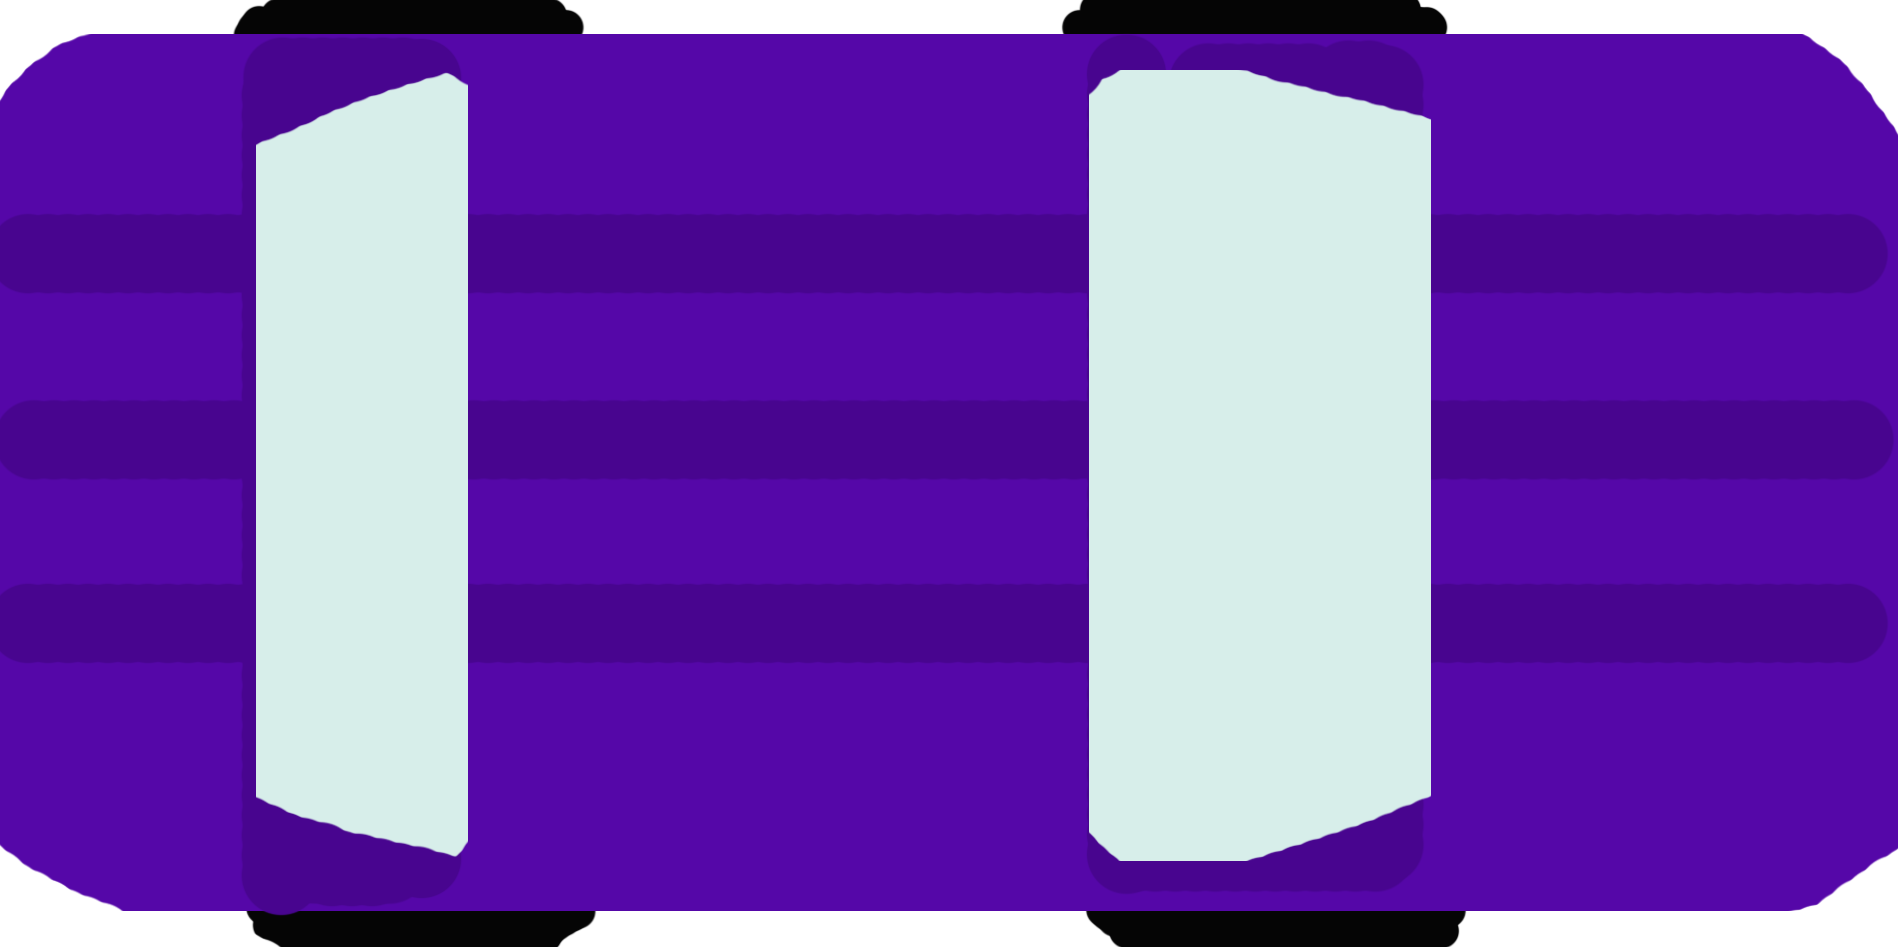
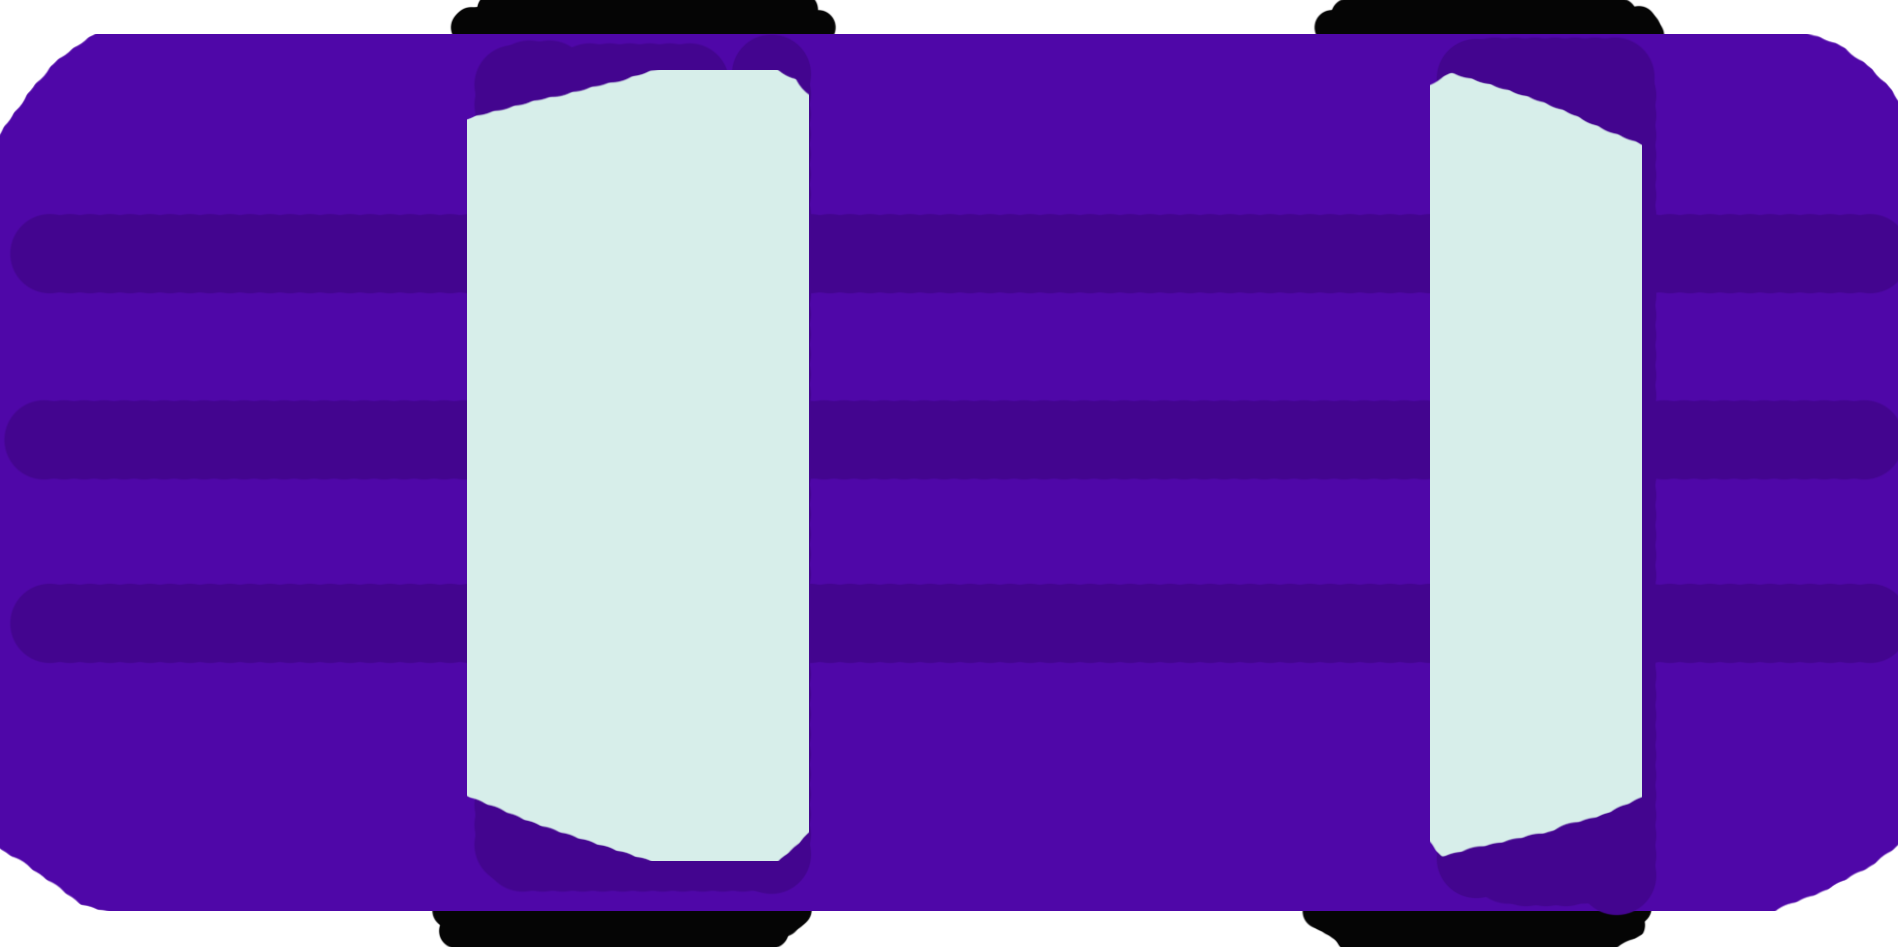
P1: Added in orange car that acts similar to car purple

diff --git a/projects/project1/js/script.js b/projects/project1/js/script.js
@@ -5,15 +5,23 @@ let caughtendingImage;
 let trafficImage;
 let carImage ={
   x:0,
-  y:100,
+  y:300,
   vx:0,
   vy:0,
   width:100,
   height:50,
-  speed:0.05,
+  speed:0.03,
   img:undefined,
 }
 let carpurpleImage ={
+  x:1000,
+  y:0,
+  width:100,
+  height:50,
+  speed:-7,
+  img:undefined,
+}
+let carorangeImage ={
   x:1000,
   y:0,
   width:100,
@@ -31,6 +39,7 @@ function preload(){
   trafficImage=loadImage("assets/images/traffic.jpg")
   carImage.img=loadImage("assets/images/car.png")
   carpurpleImage.img=loadImage("assets/images/carpurple.png")
+  carorangeImage.img=loadImage("assets/images/carorange.png")
 }
 let circle1 = {
   x:500,
@@ -189,9 +198,14 @@ function caughtending(){
 
 function traffic(){
   image(trafficImage,0,0,1000,600);
+  textSize(30);
+  textAlign(CENTER,CENTER);
+  text(`Gotta protect this 8 million baby. Not on proposal day.`,width/2,100);
+  text(`Keep goin buddy.`,width/2,50);
   carmove();
   cardisplays();
   carpurplemovement();
+  carorangemovement();
 }
 
 
@@ -277,17 +291,29 @@ function cardisplays(){
   carImage.x += carImage.vx;
   carImage.y += carImage.vy;
   image(carImage.img,carImage.x, carImage.y, carImage.width, carImage.height);
+  image(carpurpleImage.img,carpurpleImage.x, carpurpleImage.y, carpurpleImage.width, carpurpleImage.height);
+  image(carorangeImage.img,carorangeImage.x, carorangeImage.y, carorangeImage.width, carorangeImage.height);
+
 }
+
+
 function carpurplemovement(){
 carpurpleImage.x += carpurpleImage.speed;
   if (carpurpleImage.x<0){
   carpurpleImage.x=width;
-  carpurpleImage.y= random(0,600)
-  carpurpleImage.speed=random(-6,-10)
+  carpurpleImage.y= random(0,600);
+  carpurpleImage.speed=random(-6,-10);
   }
-  image(carpurpleImage.img,carpurpleImage.x, carpurpleImage.y, carpurpleImage.width, carpurpleImage.height);
 }
 
+function carorangemovement(){
+  carorangeImage.x += carorangeImage.speed;
+    if (carorangeImage.x<0){
+    carorangeImage.x=width;
+    carorangeImage.y= random(0,600);
+    carorangeImage.speed=random(-6,-10);
+    }
+}
 
 function keyPressed(){
   if (state === `title`){
